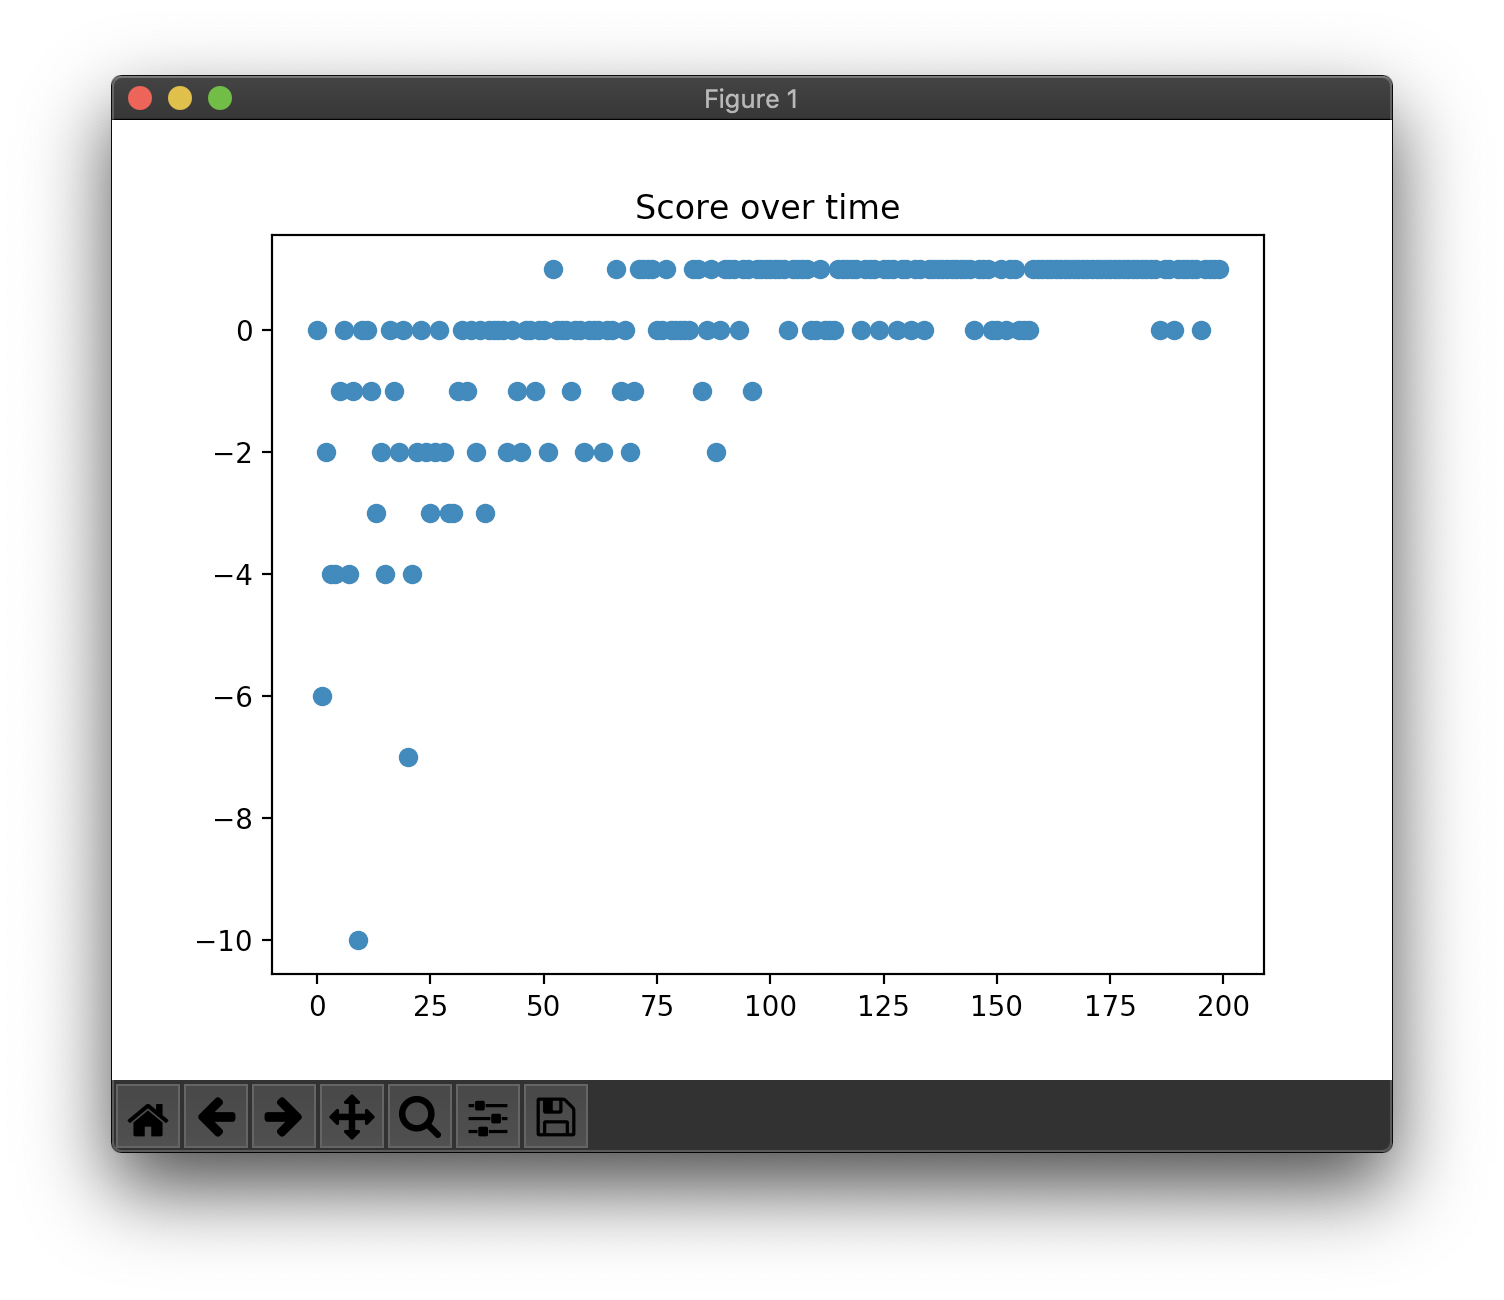
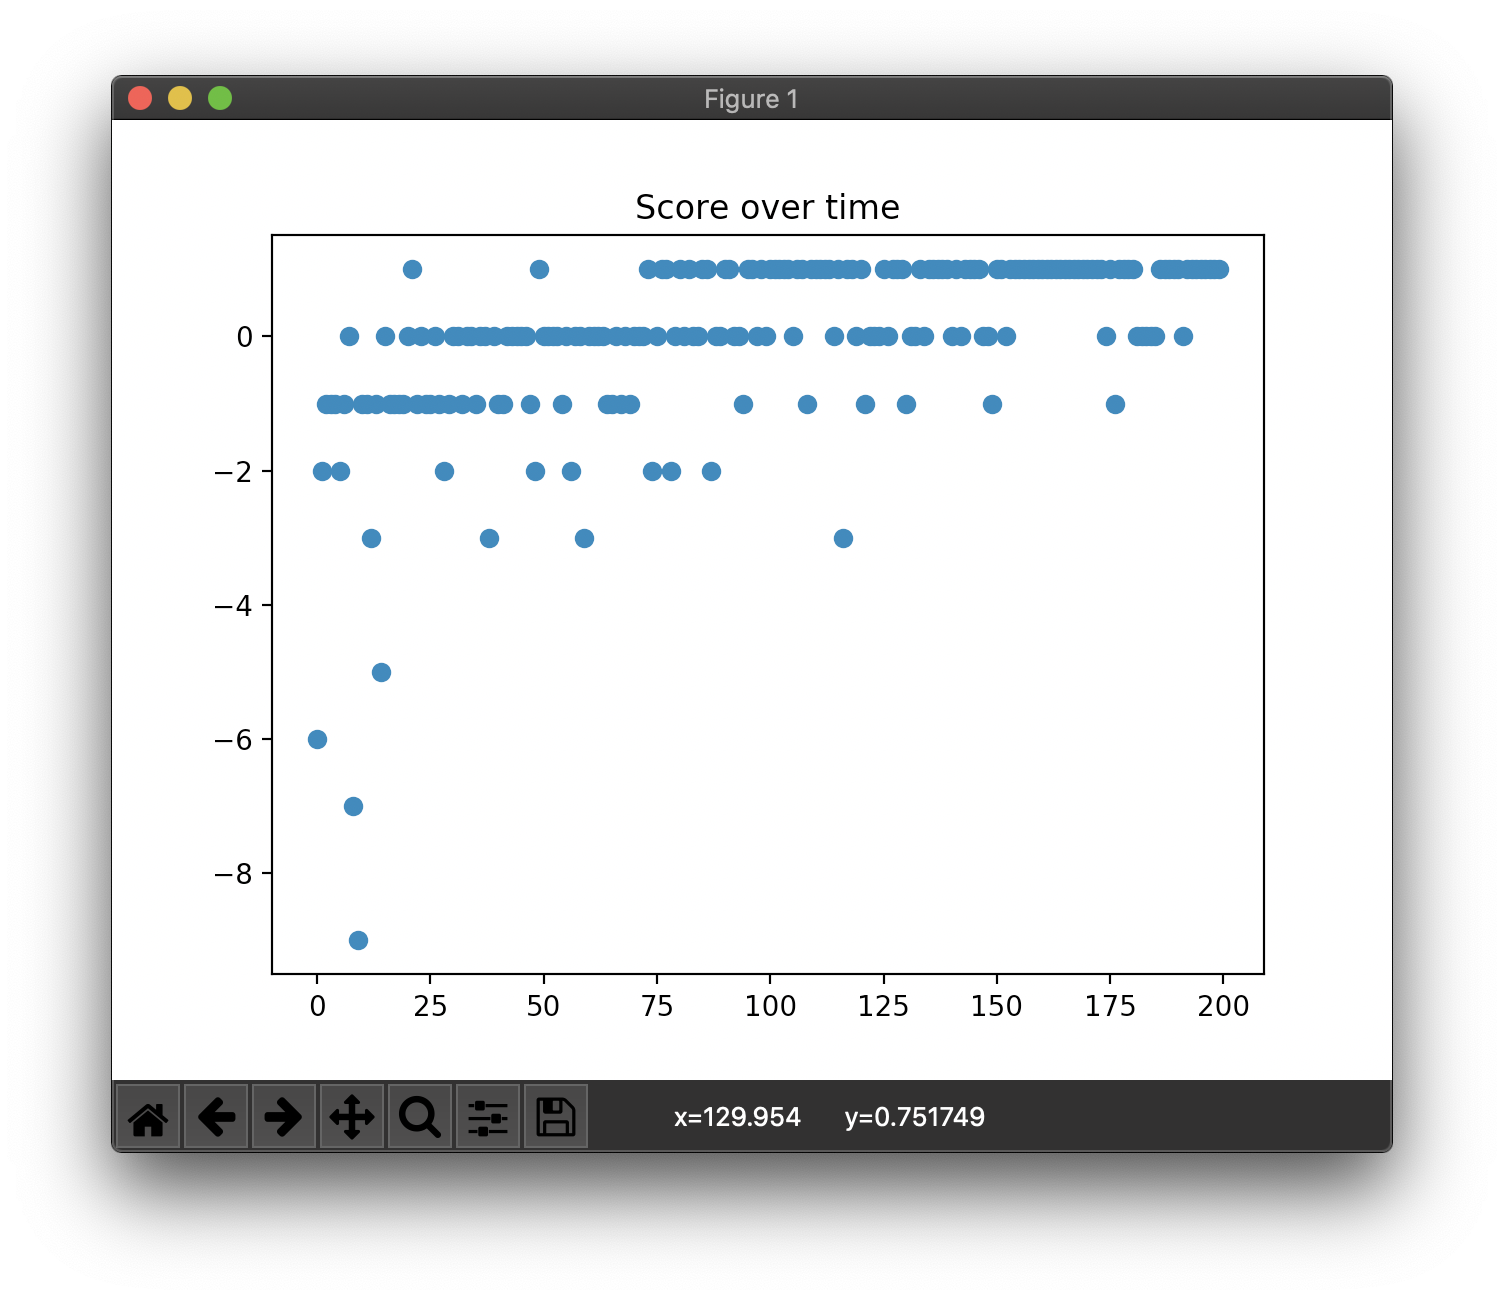
Update README.md

diff --git a/4-D3QN/src/agent.py b/4-D3QN/src/agent.py
@@ -70,7 +70,7 @@ class Agent:
             output_shape=(n_outputs, )
         )(A)
 
-        q = Add()([V, A])
+        q = Add()([V, A])  # tensor shape broadcasting
         Q_model = Model(inputs, q)
         # Q_model.summary()
         return Q_model

diff --git a/4-D3QN/README.md b/4-D3QN/README.md
@@ -28,49 +28,49 @@ Map:
 ```
 > Setting: Namespace(e=0.989, lr=0.001, r=200, s=100, y=0.95)
 (Episode:   199, Steps:     9)
-Score over time: -0.02
+Score over time: -0.005
 ```
 
 ![Gs](./images/Gs.png)
 
 ```
 Final Q-Table:
-array([[0.755, 0.829, 0.754, 0.831],
-       [0.837, 0.999, 0.752, 0.753],
-       [0.744, 0.833, 0.828, 0.668],
-       [0.667, 0.746, 0.745, 0.621],
-       [0.628, 0.703, 0.667, 0.583],
-       [0.539, 0.622, 0.629, 0.58 ],
-       [0.762, 0.98 , 0.867, 0.998],
-       [0.838, 1.064, 0.835, 0.83 ],
-       [0.756, 0.996, 0.999, 0.752],
-       [0.676, 0.824, 0.837, 0.689],
-       [0.629, 0.737, 0.743, 0.616],
-       [0.575, 0.631, 0.679, 0.613],
-       [0.816, 1.072, 0.965, 1.064],
-       [1.008, 1.164, 0.985, 1.006],
-       [0.836, 1.068, 1.066, 0.843],
-       [0.76 , 0.983, 0.967, 0.831],
-       [0.711, 0.746, 0.828, 0.614],
-       [0.615, 0.653, 0.706, 0.632],
-       [0.966, 1.166, 1.075, 1.168],
-       [1.073, 1.283, 1.072, 1.071],
-       [0.973, 0.389, 1.168, 0.974],
-       [0.774, 0.832, 1.078, 0.742],
-       [0.765, 1.885, 0.87 , 0.666],
-       [0.745, 0.752, 0.75 , 0.663],
-       [1.078, 1.285, 1.167, 1.28 ],
-       [1.162, 1.381, 1.163, 0.38 ],
-       [1.067, 1.511, 1.282, 0.68 ],
-       [1.069, 1.648, 0.978, 1.885],
-       [0.814, 0.966, 0.763, 0.86 ],
-       [0.694, 1.551, 1.885, 1.286],
-       [1.173, 1.281, 1.282, 1.378],
-       [1.278, 1.383, 1.283, 1.509],
-       [0.385, 1.502, 1.379, 1.612],
-       [0.733, 1.616, 1.51 , 1.744],
-       [1.883, 1.744, 1.612, 1.617],
-       [0.744, 1.425, 1.746, 1.101]])
+array([[ 0.636,  0.635,  0.613,  0.621],
+       [ 0.635,  0.755,  0.604,  0.579],
+       [ 0.561,  0.574,  0.569,  0.544],
+       [ 0.616,  0.62 ,  0.57 ,  0.552],
+       [ 0.561,  0.624,  0.591,  0.566],
+       [ 0.683,  0.675,  0.602,  0.58 ],
+       [ 0.6  ,  0.732,  0.687,  0.722],
+       [ 0.535,  0.719,  0.547,  0.459],
+       [ 0.592,  0.736,  0.634,  0.64 ],
+       [ 0.576,  0.739,  0.618,  0.575],
+       [ 0.592,  0.681,  0.653,  0.682],
+       [ 0.575,  0.79 ,  0.623,  0.66 ],
+       [ 0.777,  0.756,  0.736,  0.743],
+       [ 0.701,  0.919,  0.769,  0.792],
+       [ 0.524,  0.924,  0.627,  0.633],
+       [ 0.771,  1.033,  0.86 ,  0.906],
+       [ 0.623,  0.828,  0.707,  0.713],
+       [ 0.667,  0.931,  0.778,  0.775],
+       [ 0.605,  0.868,  0.759,  0.901],
+       [ 0.738,  1.059,  0.806,  1.01 ],
+       [ 1.291,  0.66 ,  0.966,  1.017],
+       [ 0.581,  0.571,  0.624,  0.526],
+       [ 1.095,  1.721,  1.218,  1.397],
+       [ 0.82 , -0.115,  1.284,  0.968],
+       [ 0.794,  1.02 ,  0.994,  1.049],
+       [ 1.067,  1.127,  1.067,  0.479],
+       [ 0.693,  1.283,  0.568,  0.355],
+       [ 0.448,  1.37 , -0.087,  1.76 ],
+       [ 0.501,  0.803,  0.737,  0.865],
+       [ 1.141,  1.483,  1.792,  1.674],
+       [ 0.891,  0.919,  0.97 ,  1.086],
+       [ 0.559,  0.678,  0.686,  1.255],
+       [-0.234,  0.723,  0.731,  1.424],
+       [ 0.574,  1.378,  1.165,  1.627],
+       [ 1.751,  1.599,  1.443,  1.415],
+       [ 0.509,  1.455,  1.61 ,  1.447]])
 Map:
 [['Start    ', 'Normal   ', 'Normal   ', 'Normal   ', 'Normal   ', 'Normal   '],
  ['Normal   ', 'Normal   ', 'Normal   ', 'Normal   ', 'Normal   ', 'Normal   '],
@@ -79,10 +79,10 @@ Map:
  ['Normal   ', 'Normal   ', 'Obstacle ', 'Obstacle ', 'Goal     ', 'Obstacle '],
  ['Normal   ', 'Normal   ', 'Normal   ', 'Normal   ', 'Normal   ', 'Normal   ']]
 Q-map:
-[['Right    ', 'Down     ', 'Down     ', 'Down     ', 'Down     ', 'Left     '],
- ['Right    ', 'Down     ', 'Left     ', 'Left     ', 'Left     ', 'Left     '],
- ['Down     ', 'Down     ', 'Down     ', 'Down     ', 'Left     ', 'Left     '],
- ['Right    ', 'Down     ', 'Left     ', 'Left     ', 'Down     ', 'Down     '],
- ['Down     ', 'Down     ', 'Down     ', 'Right    ', 'Down     ', 'Left     '],
+[['Up       ', 'Down     ', 'Down     ', 'Down     ', 'Down     ', 'Up       '],
+ ['Down     ', 'Down     ', 'Down     ', 'Down     ', 'Right    ', 'Down     '],
+ ['Up       ', 'Down     ', 'Down     ', 'Down     ', 'Down     ', 'Down     '],
+ ['Right    ', 'Down     ', 'Up       ', 'Left     ', 'Down     ', 'Left     '],
+ ['Right    ', 'Down     ', 'Down     ', 'Right    ', 'Right    ', 'Left     '],
  ['Right    ', 'Right    ', 'Right    ', 'Right    ', 'Up       ', 'Left     ']]
 ```
